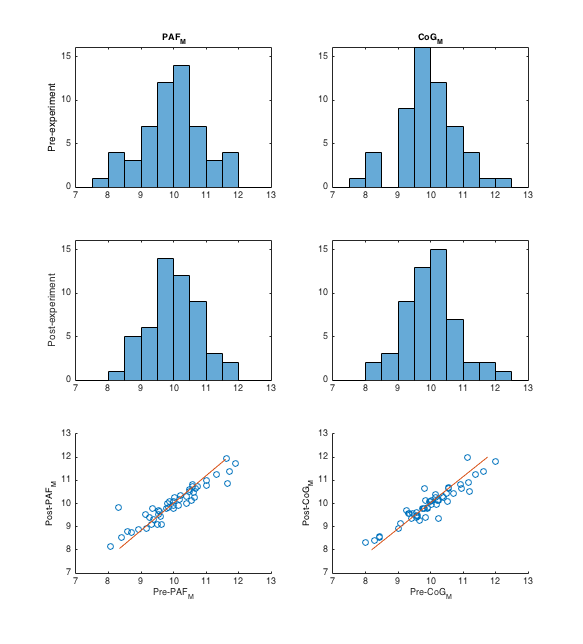
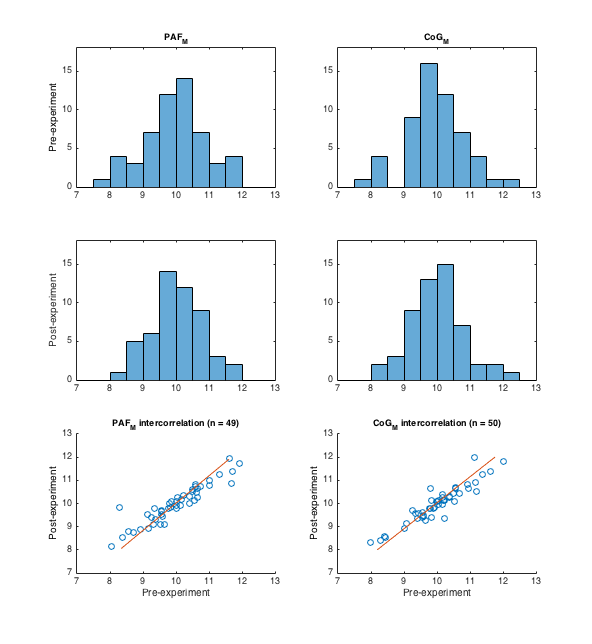
more results chat

diff --git a/iaf_manu.md b/iaf_manu.md
@@ -380,27 +380,50 @@ sample from pink noise and alpha spectrum component signals – proportion of ea
 The eyes-closed resting-state EEG was recorded while the participant sat alone in a quiet, dimly lit room. All recordings were made immediately following an analogous period of eyes-open resting-state EEG (not analysed here).
 -->
 
-## 2 Results
+## 3 Results
 
-### 2.1 Empirical EEG data
+### 3.1 Empirical EEG data
 
-#### 2.1.1 Global performance of IAF estimation routine
-<!-- AC: following reflects analysis up to S.60 only -->Three participants lacked post-experiment resting-state recordings, and thus only contributed one set of channel estimates to the analysis.
-This left a grand total of 1053 PSDs to estimate across participants; 540 pre-experiment and 513 post-experiment spectra.
-Taking the sample as a whole, 900 PAF estimates (pre = 459, post = 441) and 973 CoG estimates (pre = 496, post = 477) were generated from all included channels.
-As can be seen in [Fig_stacked_chans](#num_chan_ests), the estimation routine derived PAF and CoG estimates from the majority (if not all) available channels for most participants within the sample.
-Of those participants who registered a limited number of channel estimates, two (#29 and #50) failed surpass the threshold (i.e. $cMin = 3$) required for $PAF_M$ estimation. 
-This result indicates that these participants should be excluded from all PAF-related analyses on account of the general absence of any evident alpha band peak across the majority of channel spectra.
-Visual inspection of their respective spectra confirmed that both sets of channel data manifest little evidence of a clear alpha peak component (although there is some suggestion of a nominal peak centred about 11 Hz in participant #50's data; [Fig_no_pafs](#no_pafs), right panel).
+#### 3.1.1 Global performance of the IAF estimation routine
+<!-- AC: following reflects analysis up to S.60 only -->Post-experiment resting-state EEG recordings were missing for three participants.
+These individuals thus contributed only one set of channel estimates each leaving a grand total of 1053 PSDs to estimate across the sample (540 pre- and 513 post-experiment spectra).
+From these data, a total 900 PAF estimates (pre = 459, post = 441) and 973 CoG estimates (pre = 496, post = 477) were generated across all included channels.
+
+[Fig_stacked_chans](#num_chan_ests) shows the relative distribution of channel estimates furnished across all participants.
+This figure indicates that the estimation routine derived PAF and CoG estimates from most (if not all) available channels in the majority of cases.
+Of those participants who registered a limited number of channel estimates, two (#29 and #50) failed surpass the minimal threshold (i.e. $cMin = 3$) required for $PAF_M$ estimation. 
+This result indicates that these participants should be excluded from all PAF-related analyses on account of the general lack of a clear alpha-band peak in the majority of their channel spectra.
 One of these participants (#29) did however register sufficient $f_1$ and $f_2$ estimates to enable calculation of the post-experiment $CoG_M$, and is therefore still eligible for inclusion in analyses involving this estimator of IAF.
+Visual inspection of these individuals' PSD plots confirmed that both sets of channel data demonstrated little evidence of any distinct alpha peak component (although there is perhaps some suggestion in participant #50's spectra of a nominal peak centred about 11 Hz; [Fig_no_pafs](#no_pafs), right panel).
 
 ![*Fig_stacked_chans.* Stacked bar chart displaying the number of channels from which PAF (lower half) and CoG (upper half) estimates were derived across participants. PAF and CoG estimates are further divided according to order of EEG recording. Note, only the pre-experiment recording was available for participants #26, #56, and #57.](stacked_chans.png){#stacked_chans}
 
 ![*Fig_no_pafs.* Representative channel PSDs (three superposed spectra) from two sets of EEG recordings (left panel: participant #29; right panel: participant #50) in which the PAF estimation routine failed to detect evidence of substantive alpha rhythm activity. Shaded areas indicate range of the alpha peak search window $W_\alpha$, red line indicates $minP$ threshold.](no_pafs.png){#no_pafs}
 
-#### 2.1.2 Estimator distributions & correlation coefficients
-Consistent with previous reports [@citations], mean estimates of IAF were centred around 10 Hz, with the majority of estimates falling in the range of 9 to 11 Hz ([Fig_pre_post](#pre_post)).
-<!-- stratify by age when have rest of sample - might add to lower range -->
+#### 3.1.2 Estimator distributions & correlation coefficients
+Consistent with previous reports [@citations], mean estimates of IAF were centred around 10 Hz, with the majority of estimates falling in the range of 9 to 11 Hz.
+$PAF_M$ and $CoG_M$ were similarly distributed across both sets of recordings (see histograms, [Fig_pre_post](#pre_post)).
+Intraclass correlation coefficients ($ICC_{3,k}$: $PAF_M = .96; CoG_M = .97$) indicate that variance in $PAF_M$ and $CoG_M$ estimates can be predominantly attributed to interindividual differences across the sample, rather than intraindividual differences between recordings (see scatterplots, [Fig_pre_post](#pre_post)).
+These data are therefore in accord with previous studies that have reported evidence of the IAF's high temporal stability and interindividual variability (at least in the context of eyes-closed resting-state recordings).
+
+![*Fig_pre_post.* *Top and central rows*: Histograms displaying distribution of $PAF_M$ (left panels) and $CoG_M$ (right panels) estimates across recordings. *Bottom row*: Scatterplots showing high degree of agreement between corresponding estimators of IAF calculated from pre- and post-experiment resting-state recordings. Red line indicates least-squares best fit to data.](pre_post.png){#pre_post}
+
+Final analysis were conducted on grand-averaged alpha peak and gravity estimates ($PAF_{GA}$ and $CoG_{GA}$, respectively).
+Note that, in cases where only one channel mean estimate was registered, this value was included as the participant's grand average.
+Kernal density estimation of the probability density function underlying $PAF_{GM}$ data suggested that sample estimates are well-characterised by a Gaussian distribution ([Fig_GA_distribs](#GA_distribs)).
+($CoG_{GA}$) however showed some evidence of deviation from the Gaussian distribution in both tails.
+To the best of our knowledge, this is the first study to examine the distributional properties of the $CoG$.
+It is therefore unclear how our estimation procedure compares to previous methods of calculating alpha-band $CoG$ in this regard.
+One might however speculate that estimating IAF via the $CoG$ increases the likelihood of relatively more extreme values, on account of the latter's sensitivity to skewness within the region of the PSD defined by the individual alpha band.
+
+![*Fig_GA_distribs. *Top row*: Probability density of $PAF_{GA}$ (left panel) and $CoG_{GA}$ (right panel) following application of a Gaussian kernal density estimator. *Bottom row*: Normal probability plots indicating how well $PAF_{GA}$ and $CoG_{GA}$ estimates approximate a normal distribution (indicated by the broken red line). While $PAF_{GA}$ estimates vary in fashion consistent with an underlying normal distribution, $CoG_{GA}$ shows evidence of a somewhat heavier-tailed distribution.*](GA_distribs.png){#GA_distribs}
+
+
+![*Fig_intercorrel.*](intercorrel.png){#intercorrel}
+
+
+
+<!-- pre/post highly correlated as expected. markers of stable feature of PSD. loss of ~10% recordings speaks to value of pre/post-->
 
 
 <!--
@@ -434,3 +457,4 @@ prevalence of split peaks (44% in chiang 11, although difficult to tell if this 
 note that haegens et al, who seem to be using the van albaba version of chiang’s algorithm, only get 38 out of 51 PAFs (they remark that the curve fitting method is more conservative than standard PAF approach) – can we do better (or at least, provide CoG as viable alternative)? perhaps assumption of gaussian curve is too restrictive in some cases?
 [NB: remark that noisier/ambiguous peaks omitted suggests the algorithm isn’t the same, ? seem to find Gaussian peak at expense of split subpeaks]
 -->
+## References
